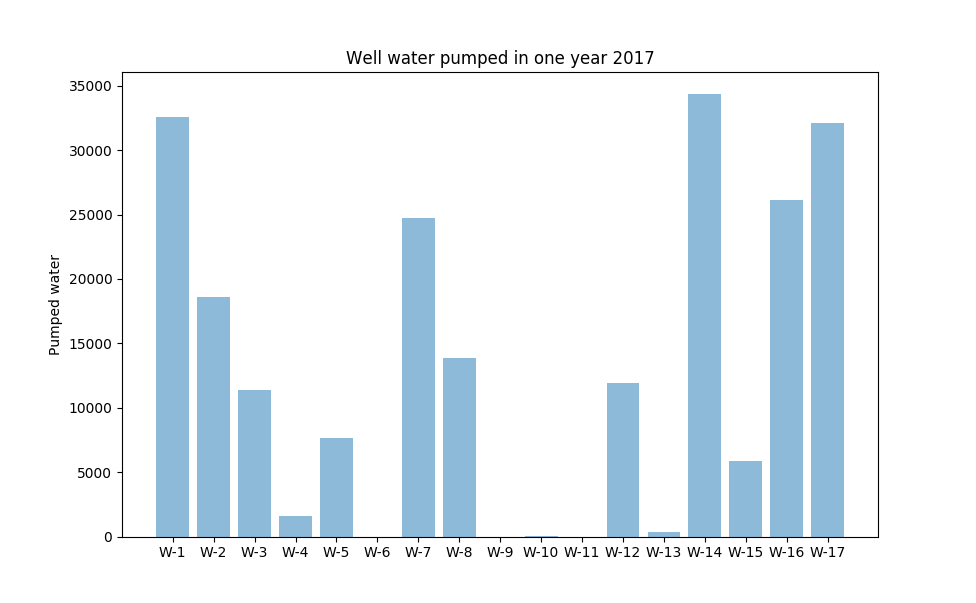
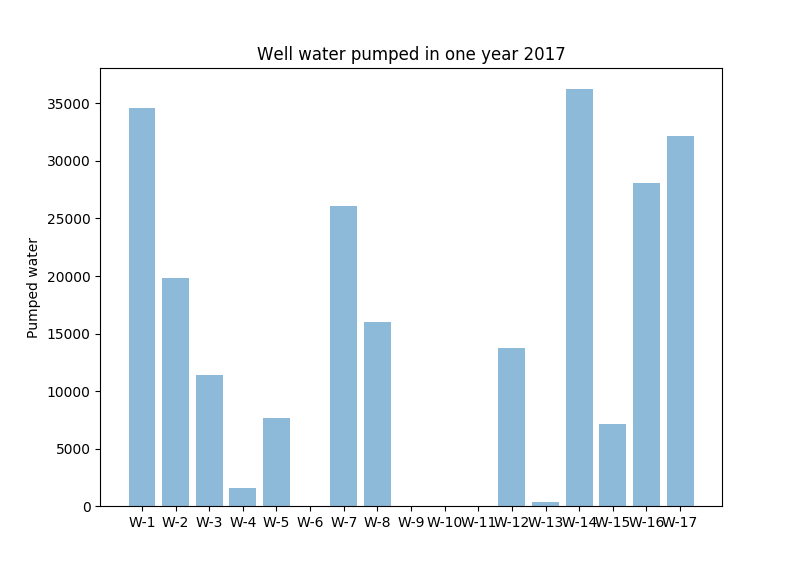
update well year

diff --git a/vis/well_year.py b/vis/well_year.py
@@ -3,7 +3,7 @@ import numpy as np
 from matplotlib.pylab import plt #load plot library
 
 
-df = pd.read_csv("../data/well_monthly_2017.csv", header=0)
+df = pd.read_csv("../data/well_monthly.csv", header=0)
 
 cum_pump = []
 wells_label = []
@@ -12,7 +12,8 @@ for well_i in range(1, 18):
     data_i.drop(columns=["month", "well"], inplace=True)
 
     data = data_i.values.flatten()
-    my_cumulative_pump = sum(data[0:len(data)-1])
+    effective = data[0:len(data)-1]
+    my_cumulative_pump = sum(effective)
     cum_pump.append(my_cumulative_pump)
     print("well:", well_i, "; pump:", my_cumulative_pump)
 
@@ -26,4 +27,5 @@ plt.xticks(y_pos, wells_label)
 plt.ylabel('Pumped water')
 plt.title('Well water pumped in one year 2017')
 
+print("Total water usage:", sum(cum_pump))
 plt.show()
